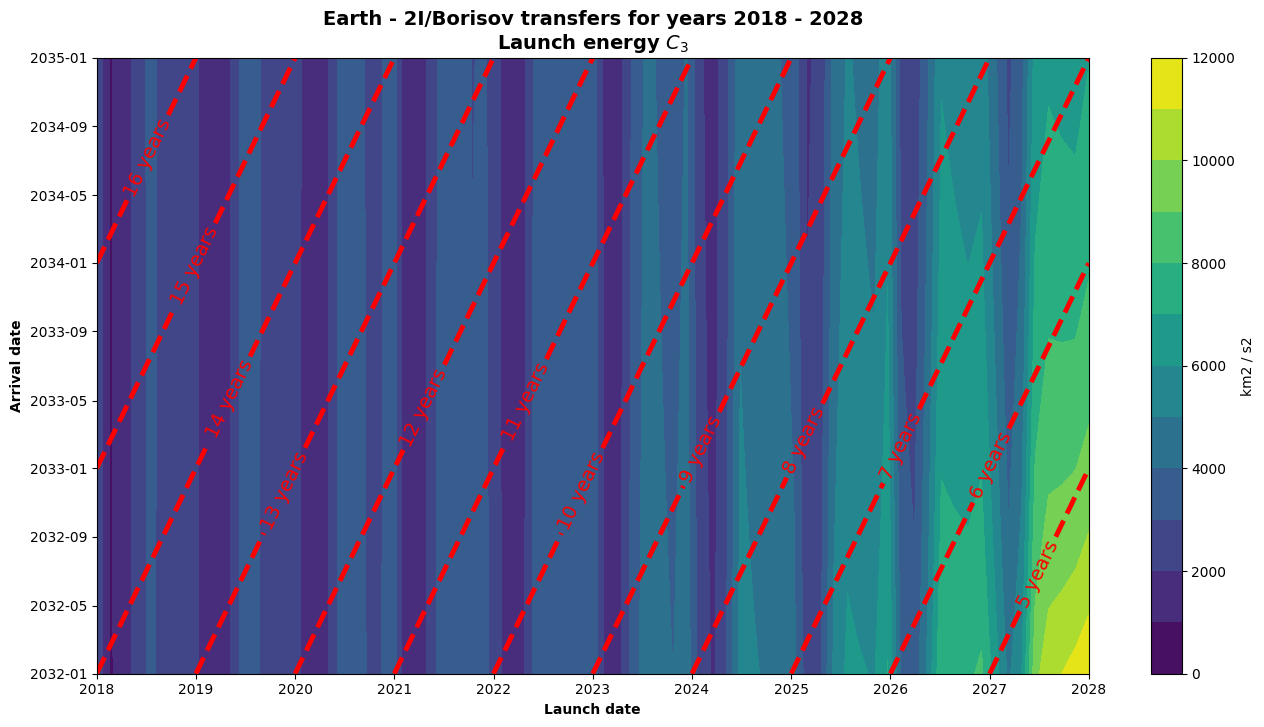
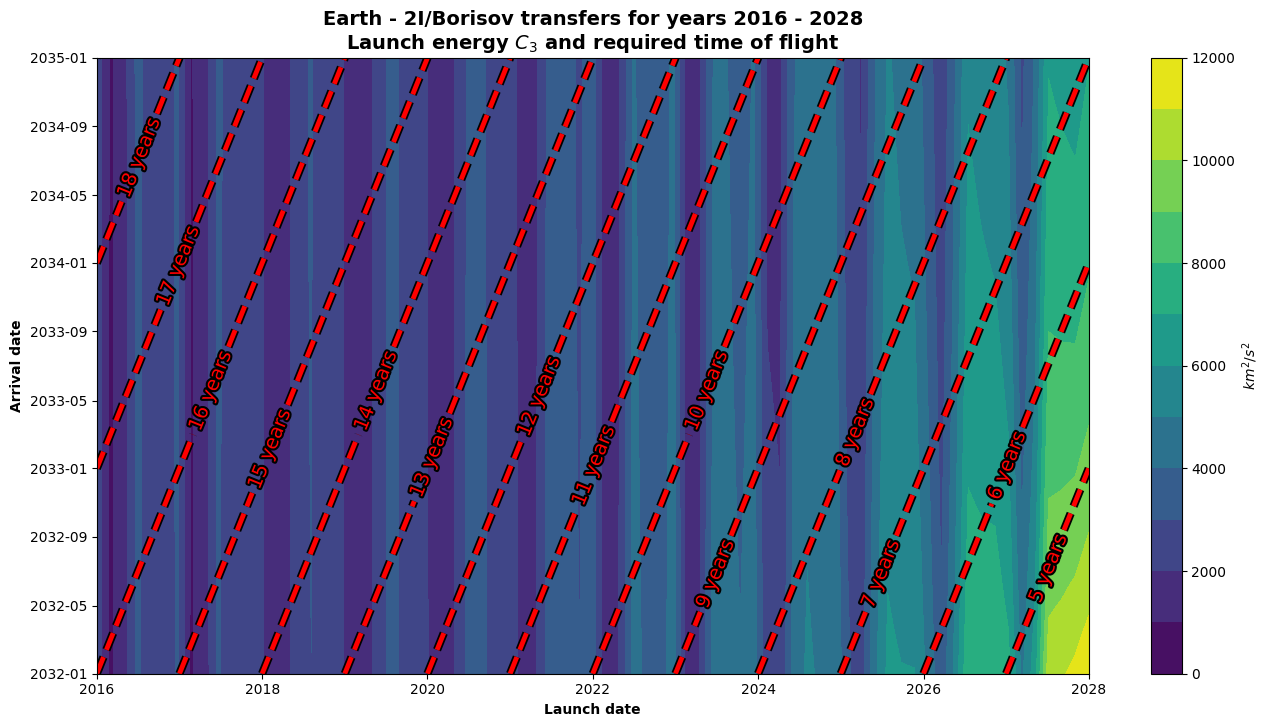
feat: expand direct mission chapter

diff --git a/src/02_targetting/direct_transfer.tex b/src/02_targetting/direct_transfer.tex
@@ -1,17 +1,21 @@
-\section{Direct orbit transfer analysis}
+\section{Direct orbit trasnfers}
 
 This section presents the results computed for a direct orbit transfer between
 Earth and the two interstellar objects. The analysis is performed by solving the
 Lambert's problem under the Keplerian assumption.
 
 The algorithm used is the one presented by \cite{izzo2015}, as it is proven to
-be more accurate and faster than other classical algorithms. The ephemerides for
-'Omuaumua and Borisov are obtained from JPL Horizons API service at epoch
-January 1, 2018. These have been propagated under the two-body assumption to
-simplify the analysis.
+be more accurate and faster than other classical algorithms \cite{martinez2021}.
+The ephemerides for 'Omuaumua and Borisov are obtained from JPL Horizons API
+service at epoch January 1, 2018. These are propagated under the two-body
+assumption to simplify the analysis. Maximum propagation date is January 1,
+2035.
 
+Porkchop plots for 'Oumuaumua and Borisov are shown in figure
+\ref{fig:oumuamua-direct-transfer-porkchop} and figure
+\ref{fig:borisov-direct-transfer-porkchop}. The limits for the characteristic
+energy range between 0 and 12000 km$^2$/s$^2$.
 
-\newpage
 \begin{figure}[H]
   \centering
   \includegraphics[width=\textwidth]{static/oumuamua/direct-transfer-porkchop.png}
@@ -22,6 +26,35 @@ simplify the analysis.
   \centering
   \includegraphics[width=\textwidth]{static/borisov/direct-transfer-porkchop.png}
   \caption{Launch energy porkchop plot for 2I/Borisov.}
-  \label{fig:oumuamua-direct-transfer-porkchop}
   \label{fig:borisov-direct-transfer-porkchop}
 \end{figure}
+
+The contour maps show a periodic pattern, with a minimum energy transfer
+corridor every year. This year corresponds to a more favorable position of the
+Earth with respect to the interstellar object.
+
+The most energy consuming area is located in the lower right corner of the plot.
+This area corresponds to a shorter time of flight (4 years). The shorter the time of
+flight, the greater the launch velocity and the energy required to perform the
+transfer. On the other hand, the upper left corner corresponds to a longer time
+of flight (17 years), with lower energy requirements.
+
+It is worh noting that the energy required to reach 'Oumuamua is slightly lower
+than the energy required to reach Borisov. This is due to the higher velocity of
+this object, since 'Oumuamua is travelling at $26.0$ km/s whereas Borisov does
+at $32.2$ km/s.
+
+Finally, both porkchops show a similar contour map. This is due to the long
+distance exhibited by the two interlopers in the future positions depicted in
+the porkchop plot. The short-time transfer scenarios show differences between
+'Oumuamua and Borisov, but the long-time transfer scenarios show close values.
+
+\begin{figure}[H]
+  \centering
+  \includegraphics[width=\textwidth]{static/borisov/direct-transfer-porkchop-avl.png}
+  \caption{Launch energy porkchop plot for 2I/Borisov.}
+  \label{fig:oumuamua-direct-transfer-porkchop}
+  \label{fig:borisov-direct-transfer-porkchop-avl}
+\end{figure}
+
+

diff --git a/bin/oumuamua_porkchop.py b/bin/oumuamua_porkchop.py
@@ -13,15 +13,15 @@ from poliastro.util import time_range
 def main():
 
     N = 75
-    launch_span = time_range("2018-01-01", end="2028-01-01", num_values=N)
+    launch_span = time_range("2016-01-01", end="2028-01-01", num_values=N)
     arrival_span = time_range("2032-01-01", end="2035-01-01", num_values=N)
 
-    borisov_ephem = Ephem.from_horizons("'Oumuamua", launch_span)
-    borisov = Orbit.from_ephem(Sun, borisov_ephem, Time("2018-01-01"))
+    oumuamua_ephem = Ephem.from_horizons("'Oumuamua", launch_span)
+    oumuamua = Orbit.from_ephem(Sun, oumuamua_ephem, Time("2016-01-01"))
 
     _, ax = plt.subplots(figsize=(16, 8))
     porkchop = PorkchopPlotter(
-        Earth, borisov, launch_span, arrival_span, ax=ax,
+        Earth, oumuamua, launch_span, arrival_span, ax=ax,
     )
     porkchop.plot(
         c3_levels=np.linspace(0, 12e3, 13) * u.km ** 2 / u.s ** 2,
@@ -30,7 +30,7 @@ def main():
         plot_tof_lines=True,
         plot_dv_lines=False,
         plot_av_lines=False,
-        title="Earth - 1I/'Oumuamua transfers for years 2018 - 2028\nLaunch energy $C_3$"
+        title="Earth - 2I/Oumuamua transfers for years 2016 - 2028\nLaunch energy $C_3$ and required time of flight"
     )
     plt.savefig("fig/static/oumuamua/direct-transfer-porkchop.png", bbox_inches="tight")
     plt.show()

diff --git a/bin/borisov_porkchop.py b/bin/borisov_porkchop.py
@@ -13,11 +13,11 @@ from poliastro.util import time_range
 def main():
 
     N = 75
-    launch_span = time_range("2018-01-01", end="2028-01-01", num_values=N)
+    launch_span = time_range("2016-01-01", end="2028-01-01", num_values=N)
     arrival_span = time_range("2032-01-01", end="2035-01-01", num_values=N)
 
     borisov_ephem = Ephem.from_horizons("C/2019 Q4", launch_span)
-    borisov = Orbit.from_ephem(Sun, borisov_ephem, Time("2018-01-01"))
+    borisov = Orbit.from_ephem(Sun, borisov_ephem, Time("2016-01-01"))
 
     _, ax = plt.subplots(figsize=(16, 8))
     porkchop = PorkchopPlotter(
@@ -26,11 +26,12 @@ def main():
     porkchop.plot(
         c3_levels=np.linspace(0, 12e3, 13) * u.km ** 2 / u.s ** 2,
         tof_levels=np.linspace(0, 20, 21) * u.year,
+        dv_levels=np.linspace(0, 60, 11) * u.km / u.s,
         plot_c3_lines=False,
         plot_tof_lines=True,
         plot_dv_lines=False,
         plot_av_lines=False,
-        title="Earth - 2I/Borisov transfers for years 2018 - 2028\nLaunch energy $C_3$"
+        title="Earth - 2I/Borisov transfers for years 2016 - 2028\nLaunch energy $C_3$ and required time of flight"
     )
     plt.savefig("fig/static/borisov/direct-transfer-porkchop.png", bbox_inches="tight")
     plt.show()
